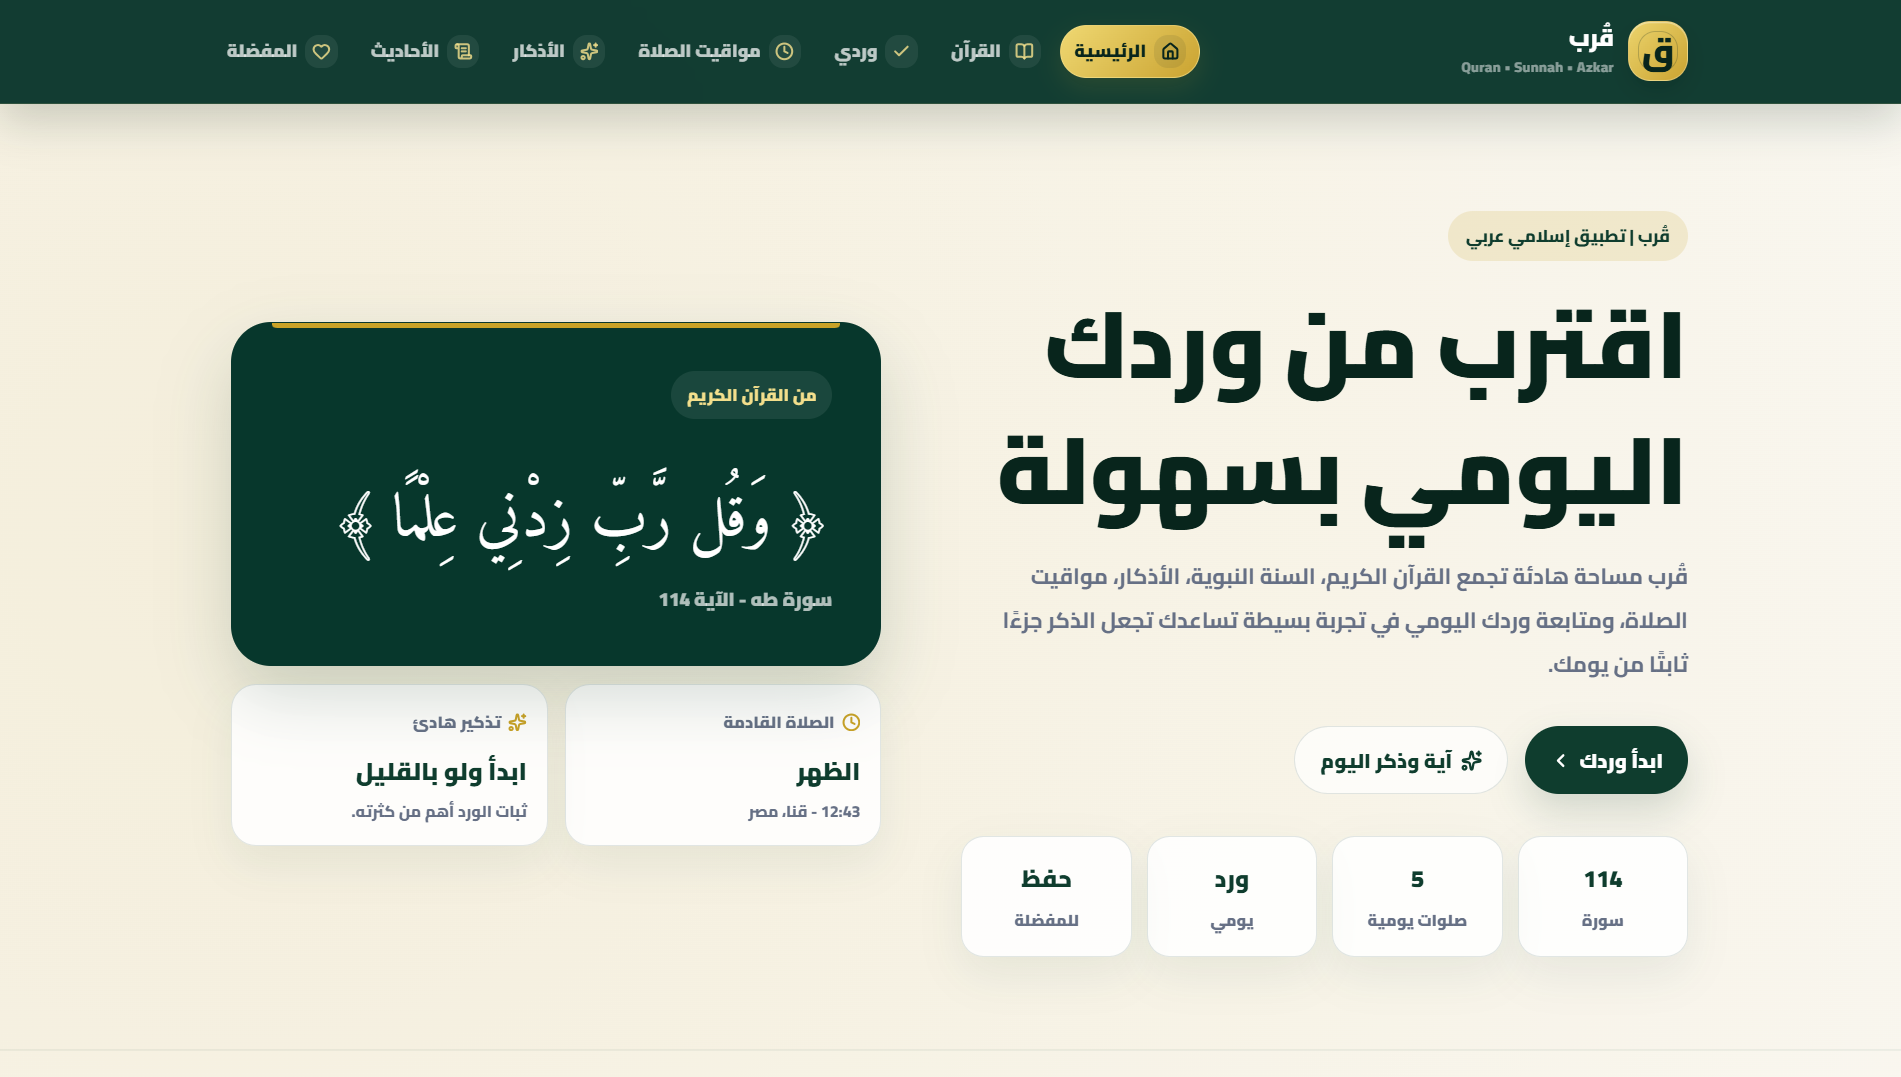
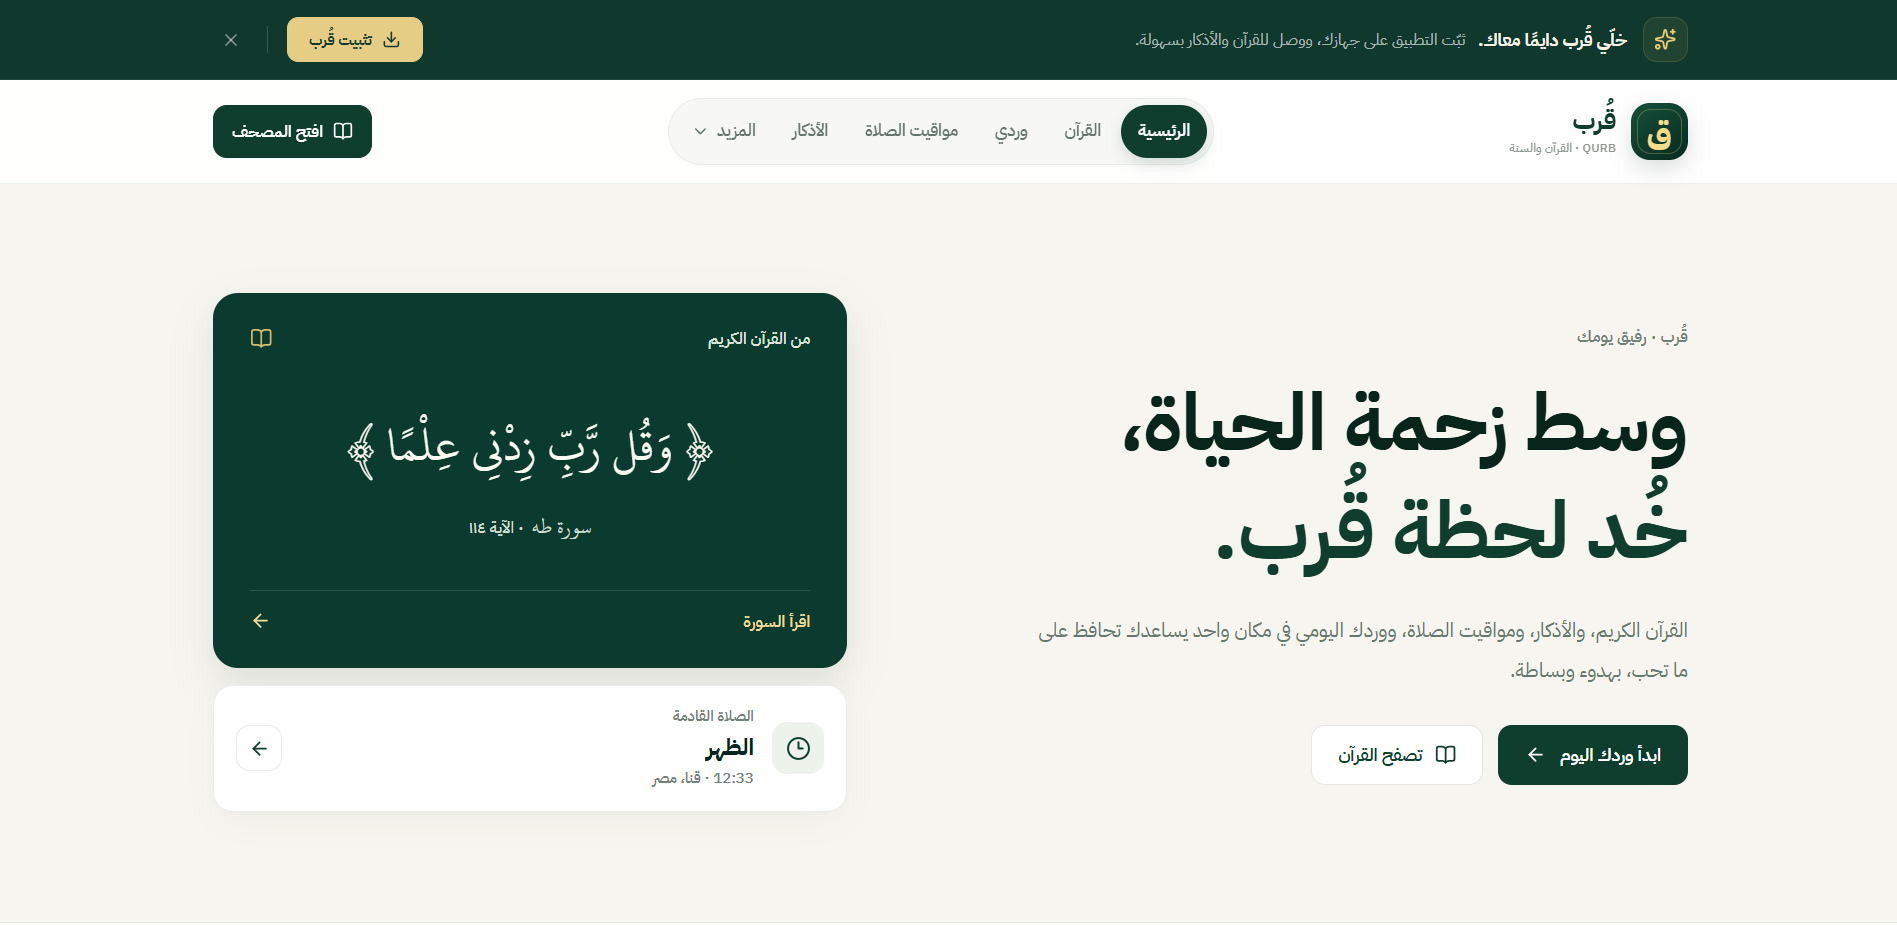
highlight Qurb PWA and offline Quran support

diff --git a/src/app/components/portfolio/portfolio.component.ts b/src/app/components/portfolio/portfolio.component.ts
@@ -24,22 +24,23 @@ export class PortfolioComponent {
     {
       title: 'Qurb | قُرب',
       description:
-        'An Arabic-first RTL Angular application for Quran reading, prayer times, azkar, hadith, favorites, daily Wird tracking, and resilient local caching.',
-      primaryCategory: 'Angular',
+        'An installable Arabic-first Islamic PWA built with Angular 22, featuring Madinah Mushaf Quran reading with offline support, prayer times, azkar, hadith, daily Wird tracking, and favorites.',
+      primaryCategory: 'Angular · PWA',
       skills: [
         'Angular 22',
         'TypeScript',
+        'PWA',
+        'Service Worker',
         'Signals',
         'RxJS',
-        'REST APIs',
-        'SCSS',
         'RTL',
-        'Local Caching',
+        'Offline Support',
       ],
       image: '/images/projects/qurb.png',
       github: 'https://github.com/MahmoudMo99/qurb',
-      live: 'https://qurb-islamic.vercel.app/',
+      live: 'https://qurb-islamic.vercel.app/home',
     },
+
     {
       title: 'RetailOps Admin Dashboard',
       description:
